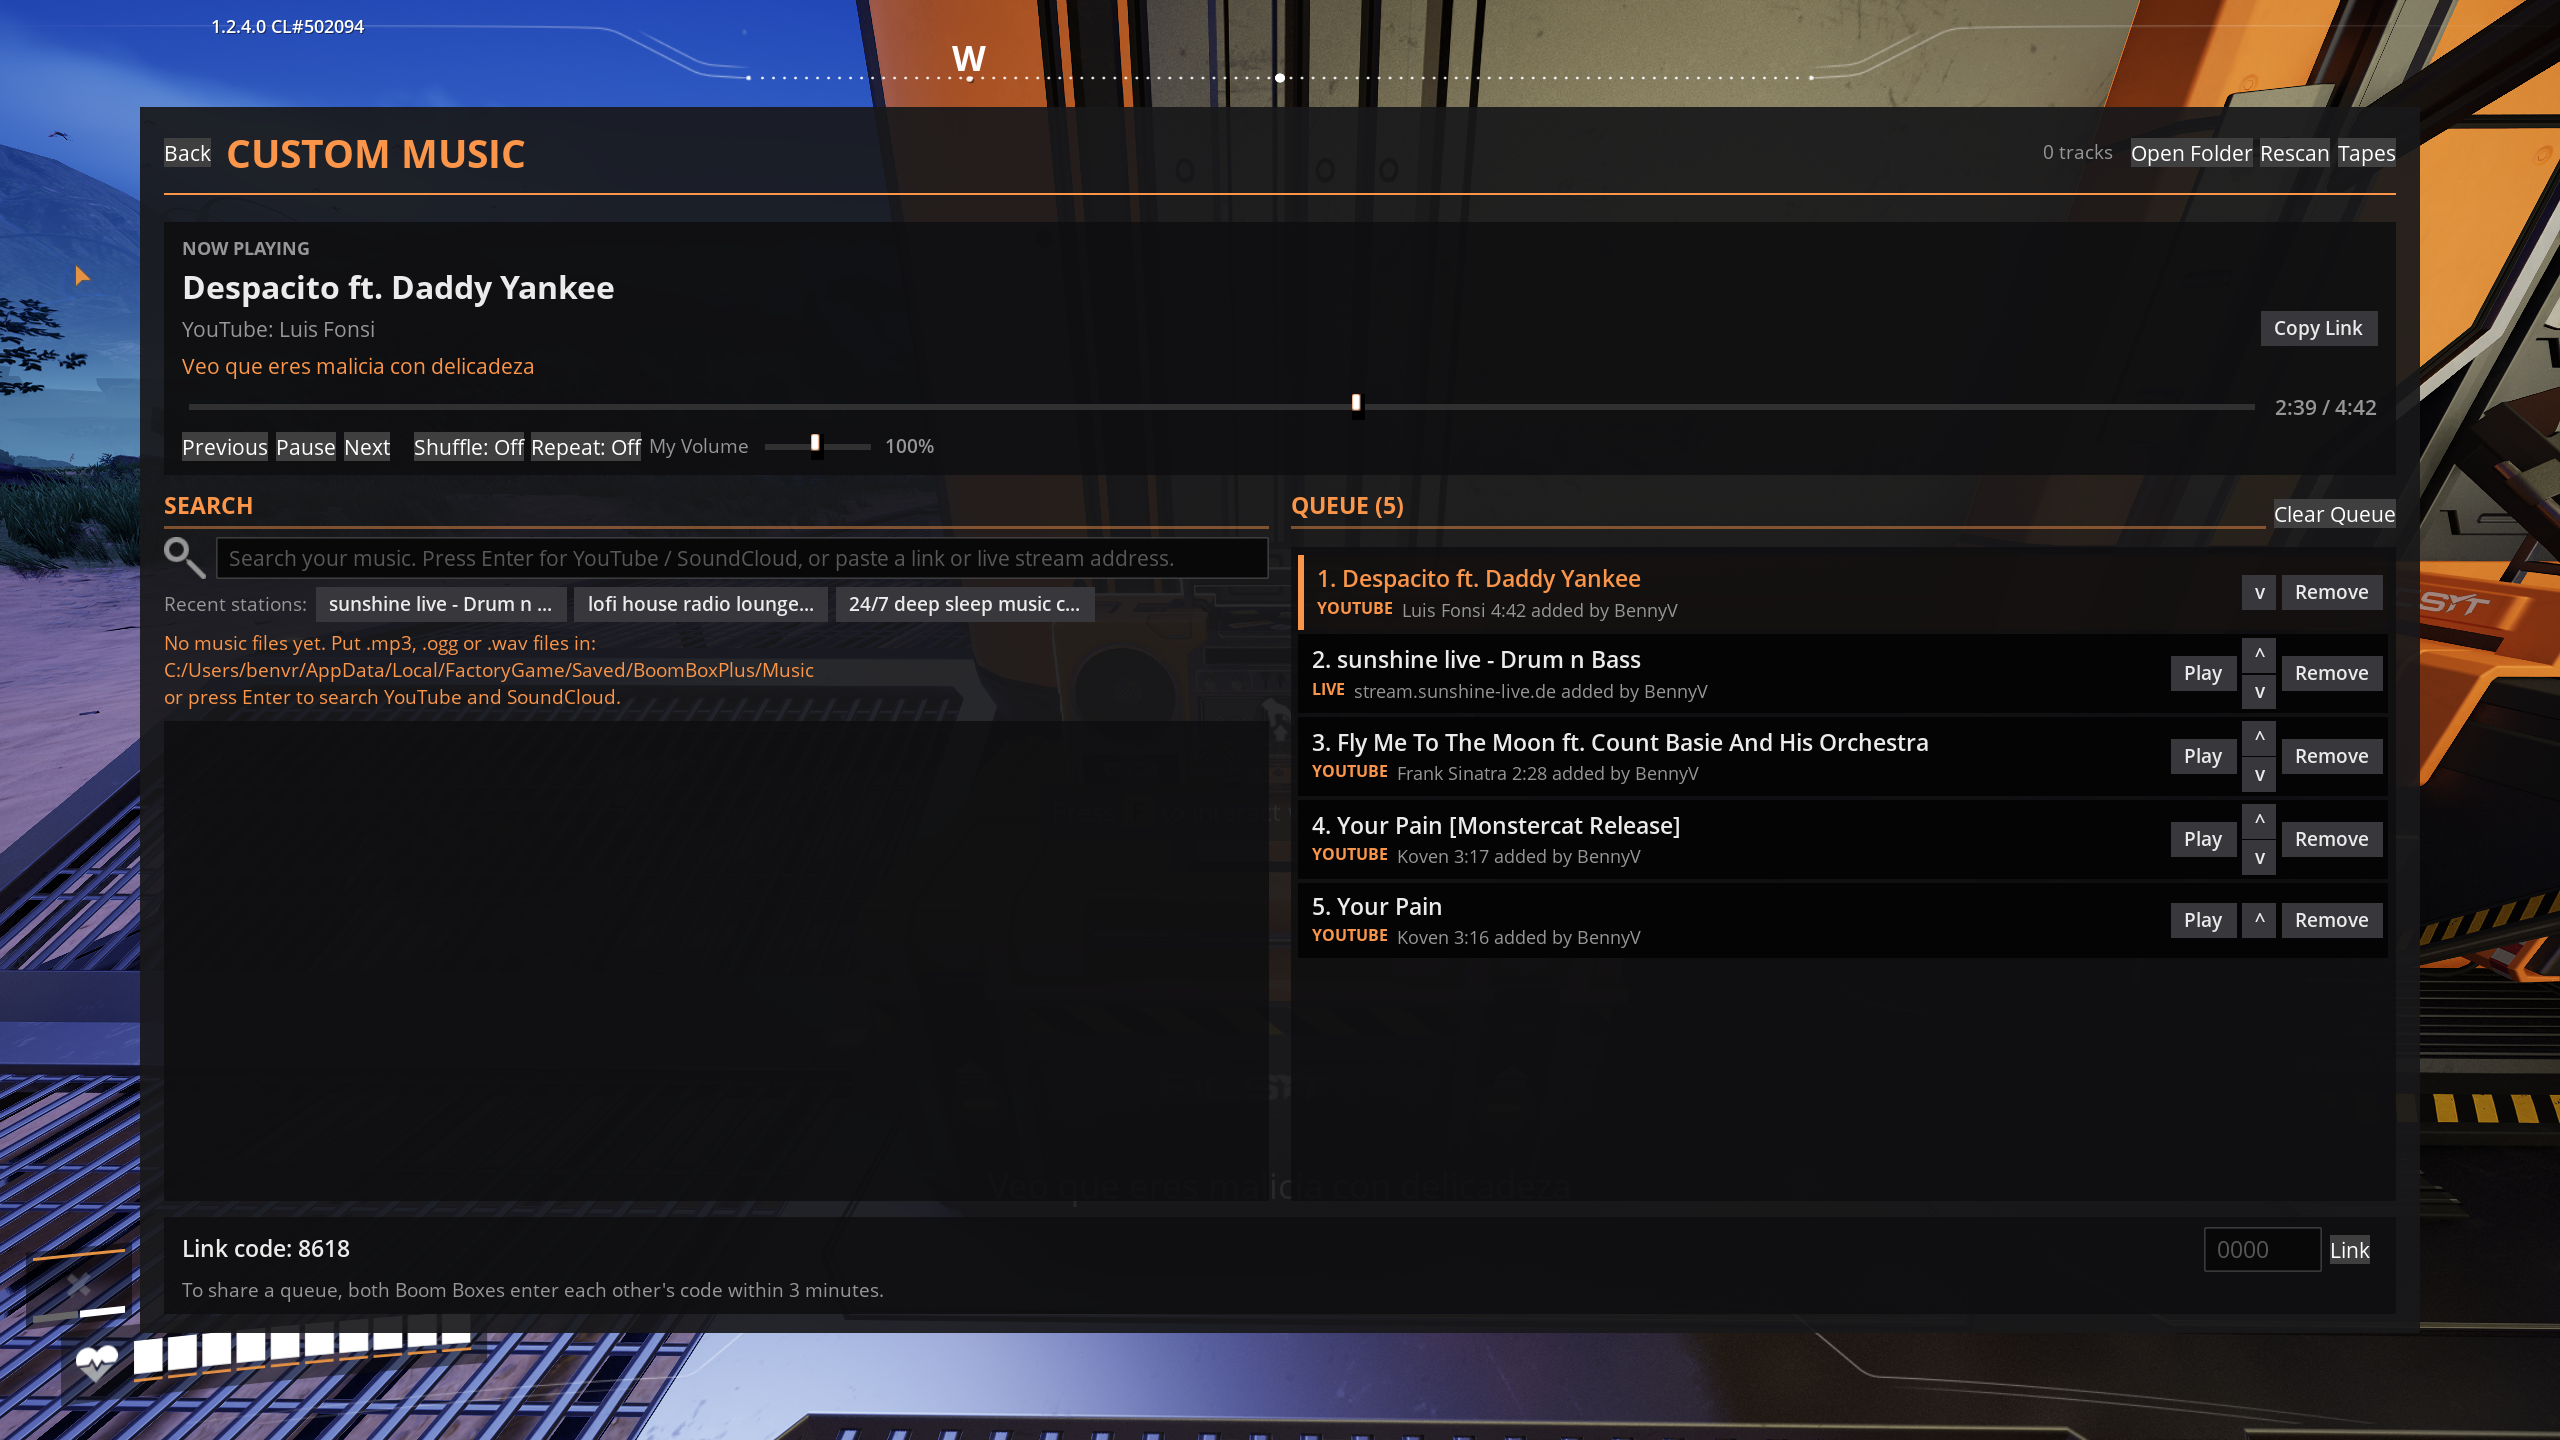
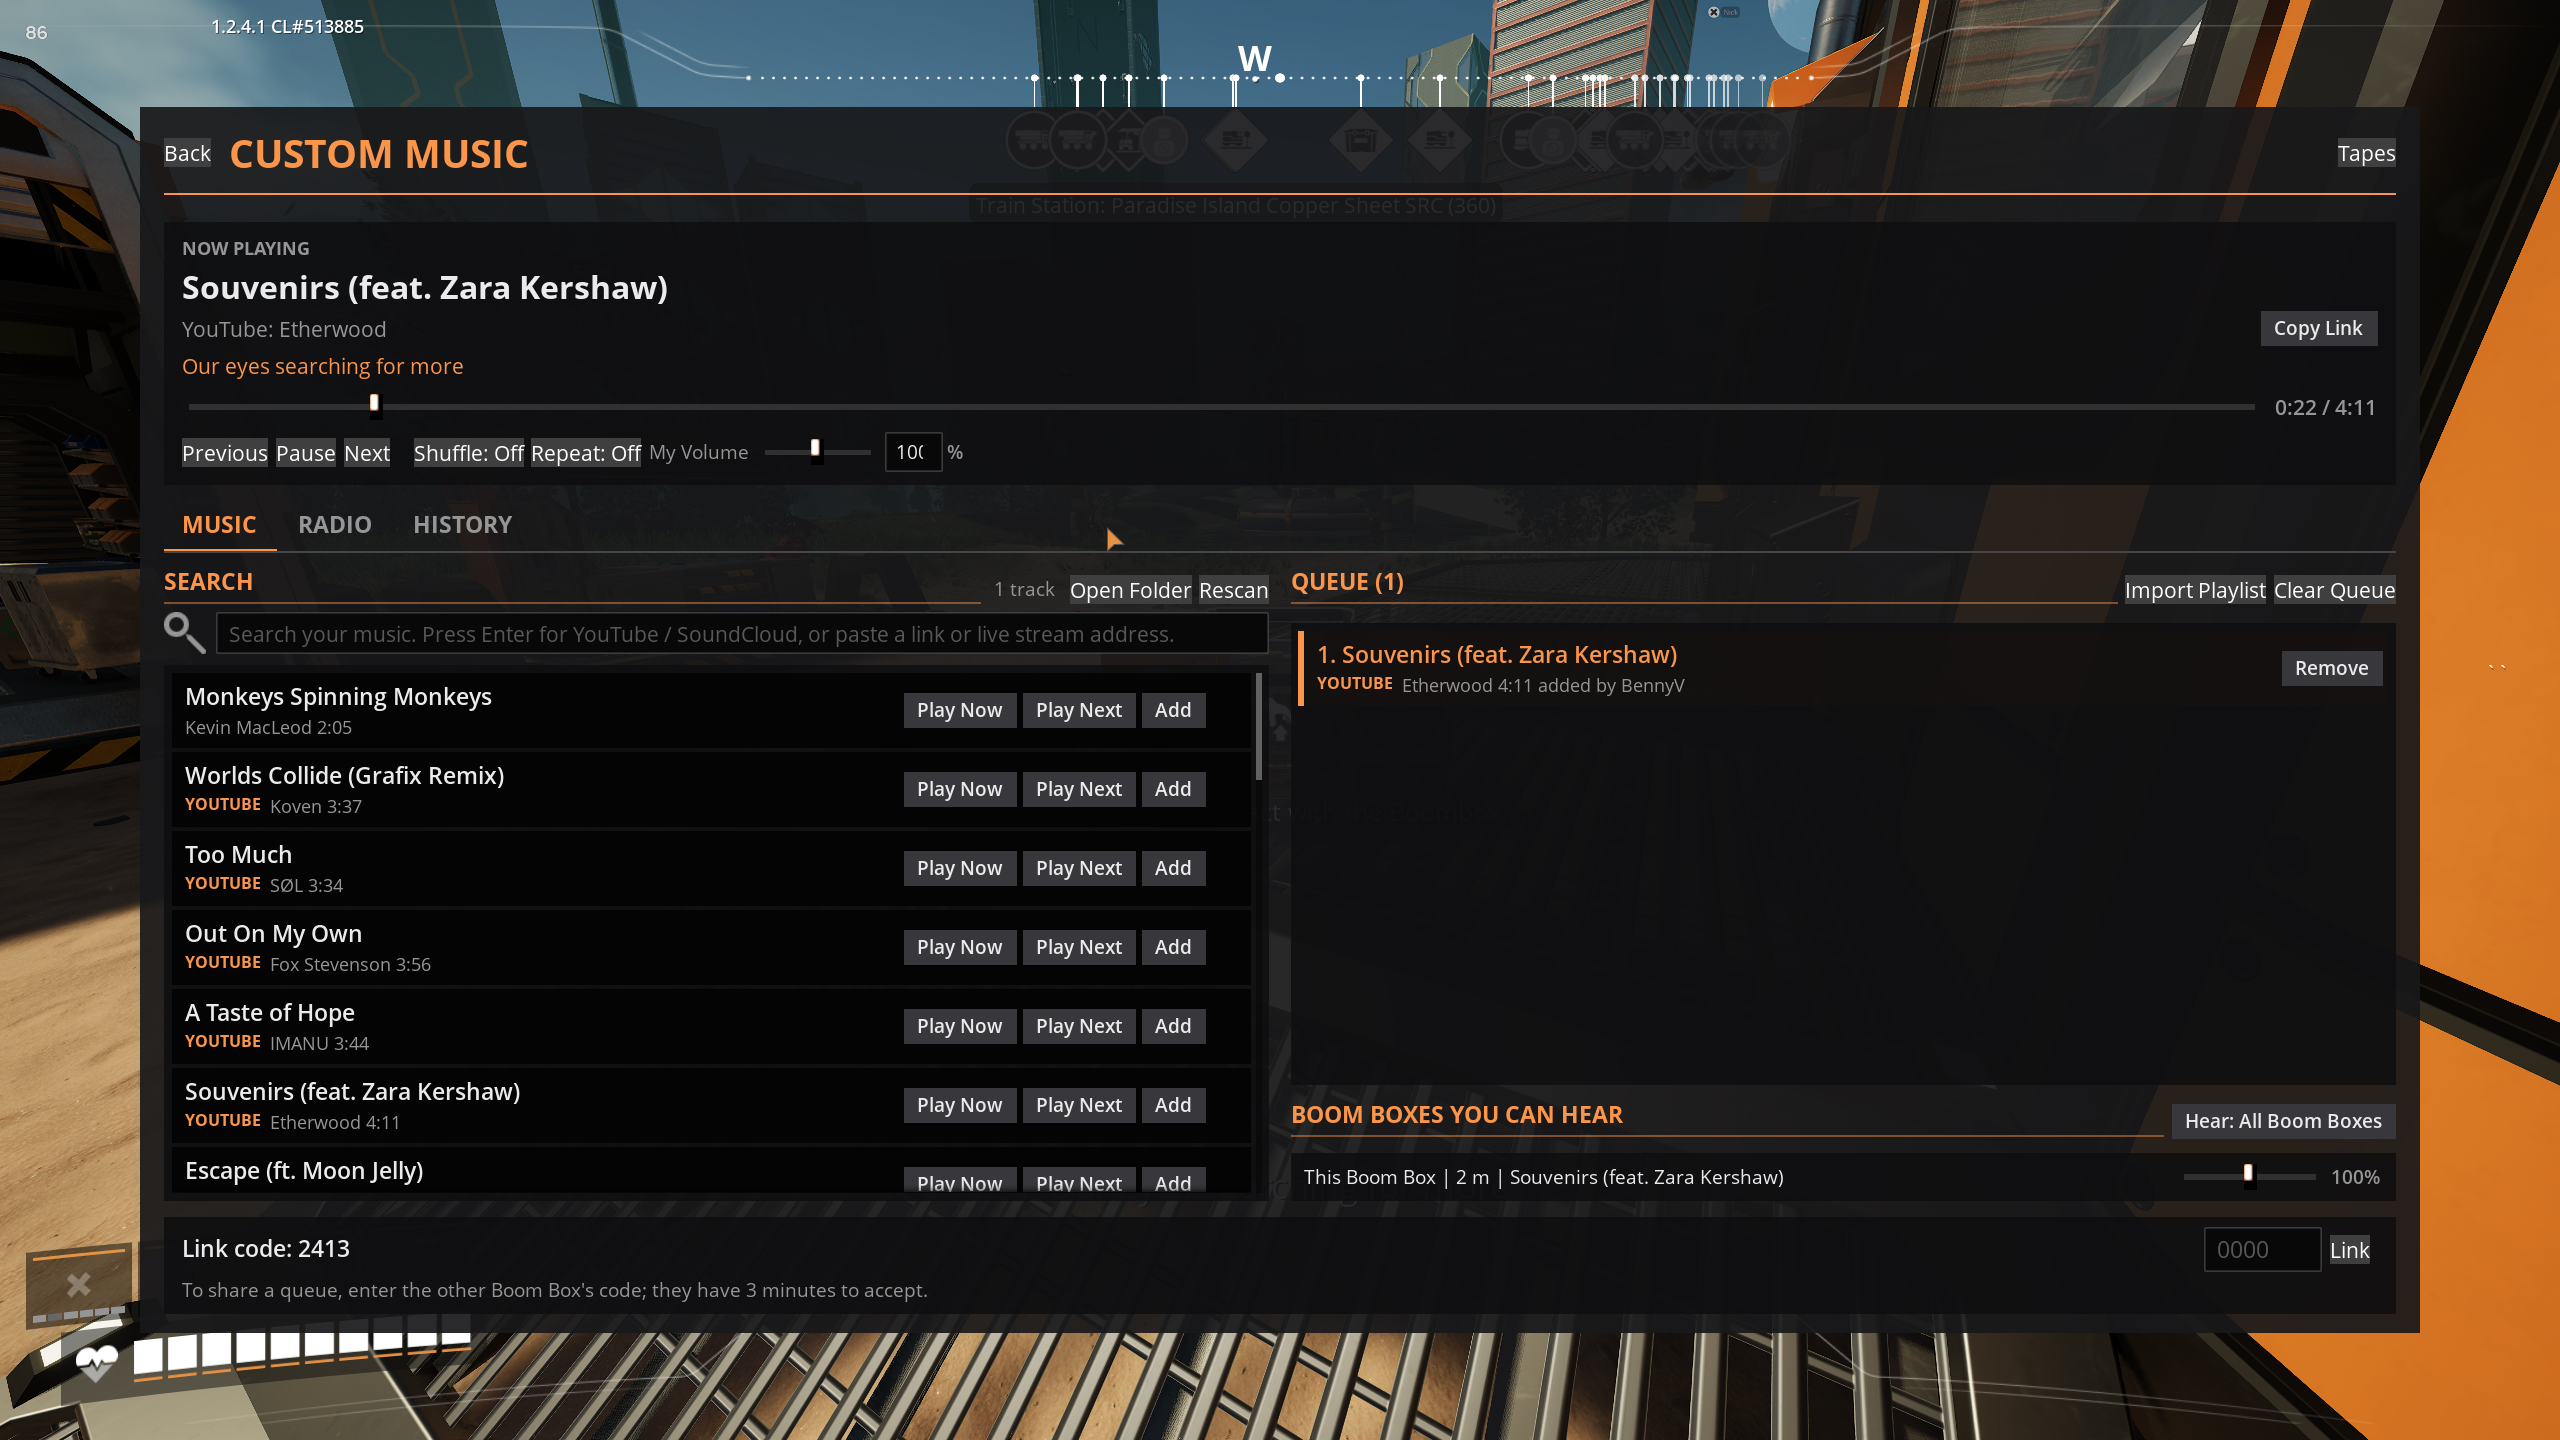
1.5.2 mod page: new screenshots (music page, Radio and History tabs, lyrics, vanilla page)

diff --git a/Docs/Release/ModPage.md b/Docs/Release/ModPage.md
@@ -20,17 +20,21 @@ everyone within earshot hears the same song at the same moment.
 
 Inspired by the PEAK mod sPEAKer.
 
-![The Custom Music page: now playing with its source and Copy Link, the current lyric and the queue](https://raw.githubusercontent.com/benvrakas/BoomBoxPlus/main/Docs/Images/music-page.png)
+![The Custom Music page: now playing with the current lyric, the Music, Radio and History tabs, search, the queue and the Boom Boxes you can hear](https://raw.githubusercontent.com/benvrakas/BoomBoxPlus/main/Docs/Images/music-page.png)
+
+![The Radio tab: add a station or import a whole list, then play, rename or remove saved stations](https://raw.githubusercontent.com/benvrakas/BoomBoxPlus/main/Docs/Images/radio-stations.png)
+
+![The History tab: the songs this Boom Box played, radio songs included, to play again or copy](https://raw.githubusercontent.com/benvrakas/BoomBoxPlus/main/Docs/Images/history.png)
 
 ![Search results with Play Now, Play Next and Add](https://raw.githubusercontent.com/benvrakas/BoomBoxPlus/main/Docs/Images/search-results.png)
 
 ![A radio station's announced song in the now-playing notification](https://raw.githubusercontent.com/benvrakas/BoomBoxPlus/main/Docs/Images/radio.png)
 
-![A placed Boom Box playing, with the current lyric line on screen](https://raw.githubusercontent.com/benvrakas/BoomBoxPlus/main/Docs/Images/lyrics-in-world.png)
+![A placed Boom Box playing: the now-playing notification and the current lyric line](https://raw.githubusercontent.com/benvrakas/BoomBoxPlus/main/Docs/Images/lyrics-in-world.png)
 
-![Carrying a Boom Box: lyrics on screen, and Turbo Bass still works](https://raw.githubusercontent.com/benvrakas/BoomBoxPlus/main/Docs/Images/lyrics-carrying.png)
+![Carrying a Boom Box with the current lyric line on screen](https://raw.githubusercontent.com/benvrakas/BoomBoxPlus/main/Docs/Images/lyrics-carrying.png)
 
-![The Boom Box's own screen following Custom Music](https://raw.githubusercontent.com/benvrakas/BoomBoxPlus/main/Docs/Images/vanilla-boombox-page.png)
+![The Boom Box's own screen with the Custom Music tape and its button back to the Custom Music page](https://raw.githubusercontent.com/benvrakas/BoomBoxPlus/main/Docs/Images/vanilla-boombox-page.png)
 
 ### Features
 

diff --git a/README.md b/README.md
@@ -4,7 +4,7 @@ A Satisfactory mod that makes the Boom Box play **your** music: songs from your 
 whole Spotify playlists and live internet radio. Everyone within earshot hears the same song at the same moment,
 with synced lyrics. Inspired by the PEAK mod sPEAKer.
 
-- **Current version:** 1.5.0 ([changelog](Docs/Release/Changelog.md))
+- **Current version:** 1.5.2 ([changelog](Docs/Release/Changelog.md))
 - **Needs:** Satisfactory build 513885 or newer (the October 2026 update) and SML 3.12 or newer.
 - **Get it:** install **BoomBoxPlus** with Satisfactory Mod Manager. Everyone in a multiplayer session needs it,
   on the same version.
@@ -79,9 +79,17 @@ rest are still being looked up, and the import carries on if you close the windo
 
 ## Screenshots
 
-The Custom Music page: now playing with its source, Copy Link, the current lyric, the seek bar and the queue.
+The Custom Music page: now playing with the current lyric, the Music, Radio and History tabs, search, the queue and the Boom Boxes you can hear.
 
 ![The Custom Music page](Docs/Images/music-page.png)
+
+The Radio tab: add a station or import a whole list of them, then play, rename or remove your saved stations.
+
+![The Radio tab](Docs/Images/radio-stations.png)
+
+The History tab: the songs this Boom Box played, radio songs included, to play again or copy.
+
+![The History tab](Docs/Images/history.png)
 
 Search results from YouTube and SoundCloud, each with Play Now, Play Next and Add.
 

diff --git a/Docs/Release/Changelog.md b/Docs/Release/Changelog.md
@@ -10,6 +10,7 @@
   It used to wait for everyone in the session, so a friend on the other side of the map held every new song for
   2 minutes. Now only players within earshot count, and when only some of them are ready, the rest get 10 seconds
   before the song starts without them (with two players, it used to take both).
+- **A proper mod icon.** The icon is square without squashing the Boom Box any more.
 
 ## 1.5.1
 
